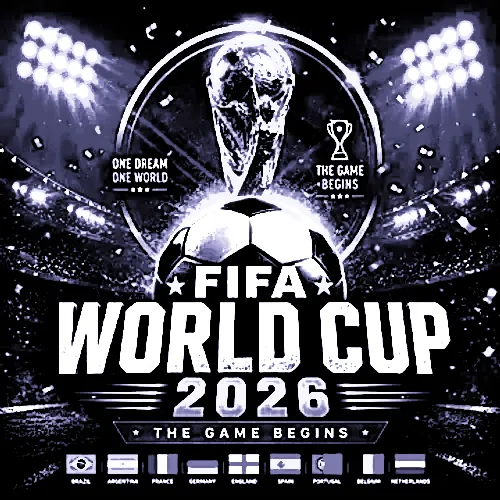
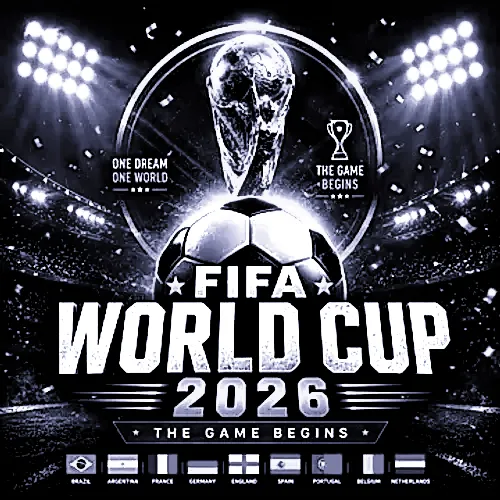
fix: restore image colors and fix headline visibility

diff --git a/src/app/profile/page.tsx b/src/app/profile/page.tsx
@@ -24,18 +24,20 @@ const NATION_TO_TEAM_ID: Record<string, number> = {
   'MEXICO': 16,
 }
 
-interface Player {
+interface Match {
   id: number
-  name: string
-  position: string
-  nationality: string
+  homeTeam: { name: string }
+  awayTeam: { name: string }
+  utcDate: string
+  competition: { name: string }
+  status: string
 }
 
 export default function ProfilePage() {
   const router = useRouter()
   const [nation, setNation] = useState<string | null>(null)
   const [starPlayer, setStarPlayer] = useState<string | null>(null)
-  const [squad, setSquad] = useState<Player[]>([])
+  const [matches, setMatches] = useState<Match[]>([])
   const [loading, setLoading] = useState(true)
   const [error, setError] = useState<string | null>(null)
 
@@ -58,11 +60,11 @@ export default function ProfilePage() {
     setNation(savedNation)
     setStarPlayer(savedPlayer)
 
-    const fetchSquad = async () => {
+    const fetchMatches = async () => {
       try {
         const teamId = NATION_TO_TEAM_ID[savedNation.toUpperCase()]
         if (!teamId) {
-          setError(`No live squad data available for ${savedNation} at this moment.`)
+          setError(`No upcoming match data available for ${savedNation} at this moment.`)
           setLoading(false)
           return
         }
@@ -70,11 +72,11 @@ export default function ProfilePage() {
         const res = await fetch(`/api/squad?teamId=${teamId}`)
 
         if (!res.ok) {
-          throw new Error('Failed to fetch squad data. Check API key or rate limits.')
+          throw new Error('Failed to fetch match data. Check API key or rate limits.')
         }
 
         const data = await res.json()
-        setSquad(data.squad || [])
+        setMatches(data.matches || [])
       } catch (err: any) {
         setError(err.message)
       } finally {
@@ -82,7 +84,7 @@ export default function ProfilePage() {
       }
     }
 
-    fetchSquad()
+    fetchMatches()
   }, [router])
 
   const handleChangeTeam = () => {
@@ -94,7 +96,7 @@ export default function ProfilePage() {
   if (loading) {
     return (
       <main style={{ minHeight: '100vh', backgroundColor: '#101415', color: '#e0e3e5', display: 'flex', justifyContent: 'center', alignItems: 'center' }}>
-        <div style={{ fontFamily: A, fontSize: '32px', color: '#e6c364' }}>LOADING SQUAD...</div>
+        <div style={{ fontFamily: A, fontSize: '32px', color: '#e6c364' }}>LOADING MATCHES...</div>
       </main>
     )
   }
@@ -116,22 +118,30 @@ export default function ProfilePage() {
         <p style={{ color: '#c6c6cc', fontSize: '18px', letterSpacing: '2px' }}>STAR PLAYER: <span style={{ color: '#fff' }}>{starPlayer}</span></p>
       </section>
 
-      {/* SQUAD GRID */}
+      {/* UPCOMING MATCHES */}
       <section style={{ padding: '40px 48px', maxWidth: '1200px', margin: '0 auto' }}>
-        <h2 style={{ fontFamily: A, fontSize: '32px', color: '#fff', marginBottom: '32px', borderBottom: '1px solid rgba(255,255,255,0.1)', paddingBottom: '16px' }}>LIVE SQUAD</h2>
+        <h2 style={{ fontFamily: A, fontSize: '32px', color: '#fff', marginBottom: '32px', borderBottom: '1px solid rgba(255,255,255,0.1)', paddingBottom: '16px' }}>UPCOMING MATCHES</h2>
         
         {error ? (
           <div style={{ color: '#ff6b6b', backgroundColor: 'rgba(255,107,107,0.1)', padding: '24px', border: '1px solid rgba(255,107,107,0.2)', textAlign: 'center' }}>
             {error}
           </div>
+        ) : matches.length === 0 ? (
+          <div style={{ color: '#909096', textAlign: 'center', padding: '40px' }}>No upcoming matches scheduled.</div>
         ) : (
-          <div style={{ display: 'grid', gridTemplateColumns: 'repeat(auto-fill, minmax(280px, 1fr))', gap: '24px' }}>
-            {squad.map((player) => (
-              <div key={player.id} style={{ backgroundColor: 'rgba(255,255,255,0.02)', border: '1px solid rgba(255,255,255,0.08)', padding: '24px', position: 'relative', overflow: 'hidden' }}>
+          <div style={{ display: 'flex', flexDirection: 'column', gap: '16px' }}>
+            {matches.map((match) => (
+              <div key={match.id} style={{ backgroundColor: 'rgba(255,255,255,0.02)', border: '1px solid rgba(255,255,255,0.08)', padding: '24px', position: 'relative', overflow: 'hidden' }}>
                 <div style={{ position: 'absolute', top: 0, left: 0, width: '4px', height: '100%', backgroundColor: '#e6c364' }}></div>
-                <div style={{ color: '#e6c364', fontSize: '11px', letterSpacing: '2px', marginBottom: '8px', textTransform: 'uppercase' }}>{player.position || 'Unknown Position'}</div>
-                <div style={{ fontFamily: A, fontSize: '24px', color: '#fff', marginBottom: '8px' }}>{player.name}</div>
-                <div style={{ color: '#888', fontSize: '13px' }}>{player.nationality}</div>
+                <div style={{ color: '#e6c364', fontSize: '11px', letterSpacing: '2px', marginBottom: '12px', textTransform: 'uppercase' }}>{match.competition?.name || 'Competition'}</div>
+                <div style={{ display: 'flex', justifyContent: 'center', alignItems: 'center', gap: '24px', marginBottom: '12px' }}>
+                  <div style={{ fontFamily: A, fontSize: '24px', color: '#fff', flex: 1, textAlign: 'right' }}>{match.homeTeam?.name || 'TBD'}</div>
+                  <div style={{ color: '#e6c364', fontSize: '14px', fontWeight: 'bold', letterSpacing: '2px' }}>VS</div>
+                  <div style={{ fontFamily: A, fontSize: '24px', color: '#fff', flex: 1, textAlign: 'left' }}>{match.awayTeam?.name || 'TBD'}</div>
+                </div>
+                <div style={{ color: '#909096', fontSize: '13px', textAlign: 'center' }}>
+                  {match.utcDate ? new Date(match.utcDate).toLocaleDateString('en-US', { weekday: 'short', month: 'short', day: 'numeric', year: 'numeric', hour: '2-digit', minute: '2-digit' }) : 'Date TBD'}
+                </div>
               </div>
             ))}
           </div>

diff --git a/src/app/page.tsx b/src/app/page.tsx
@@ -156,7 +156,7 @@ export default function Home() {
         </div>
         <div style={{position:'relative', zIndex:10, display:'flex', flexDirection:'column', alignItems:'center', maxWidth:'900px'}}>
 
-          <h1 style={{fontFamily:A, fontSize: isMobile ? 'clamp(26px,9vw,36px)' : 'clamp(40px,7vw,80px)', color:'#ffffff', marginBottom:'16px', lineHeight:1, opacity:0.6}}>DISCOVER YOUR FOOTBALL DNA</h1>
+          <h1 style={{fontFamily:A, fontSize: isMobile ? 'clamp(26px,9vw,36px)' : 'clamp(40px,7vw,80px)', color:'#ffffff', marginBottom:'16px', lineHeight:1, opacity:1}}>DISCOVER YOUR FOOTBALL DNA</h1>
           <p style={{color:'#e6c364', fontSize: isMobile ? '11px' : '18px', marginBottom:'24px', letterSpacing: isMobile ? '1px' : '3px', opacity:0.55}}>48 NATIONS. 104 MATCHES. ONE TROPHY.</p>
           <div style={{marginBottom:'32px', padding: isMobile ? '10px 14px' : '16px 24px', border:'1px solid rgba(230,195,100,0.5)', backgroundColor:'rgba(0,0,0,0.6)'}}>
             <div style={{color:'#e6c364', fontSize:'11px', letterSpacing:'4px', marginBottom:'4px'}}>TOURNAMENT COUNTDOWN</div>
@@ -200,7 +200,7 @@ export default function Home() {
           {filteredPlayers.map((p) => (
             <div key={p.nation} style={{position:'relative', flexShrink:0, width: isMobile ? '160px' : '280px', height: isMobile ? '260px' : '420px', borderTop:`2px solid ${p.color}`, cursor:'pointer', overflow:'hidden'}}>
               {playerImages[p.nation] && (
-                <img src={playerImages[p.nation]} alt={p.name} style={{position:'absolute', width:'100%', height:'100%', objectFit:'cover', objectPosition:'top center', opacity:0.6}} />
+                <img src={playerImages[p.nation]} alt={p.name} style={{position:'absolute', width:'100%', height:'100%', objectFit:'cover', objectPosition:'top center', opacity:1}} />
               )}
               <div style={{position:'absolute', inset:0, background:`linear-gradient(to bottom, ${p.color}99, #080d1a)`, display:'flex', alignItems:'center', justifyContent:'center'}}>
                 <div style={{fontFamily:'Anton, sans-serif', fontSize:'70px', color:p.color, opacity:0.4, letterSpacing:'-4px'}}>{p.nation.slice(0,3)}</div>

diff --git a/src/app/api/squad/route.ts b/src/app/api/squad/route.ts
@@ -14,7 +14,7 @@ export async function GET(request: NextRequest) {
   }
 
   try {
-    const res = await fetch(`https://api.football-data.org/v4/teams/${teamId}`, {
+    const res = await fetch(`https://api.football-data.org/v4/teams/${teamId}/matches?status=SCHEDULED&limit=5`, {
       headers: { 'X-Auth-Token': apiKey },
       next: { revalidate: 3600 } // cache for 1 hour
     })
